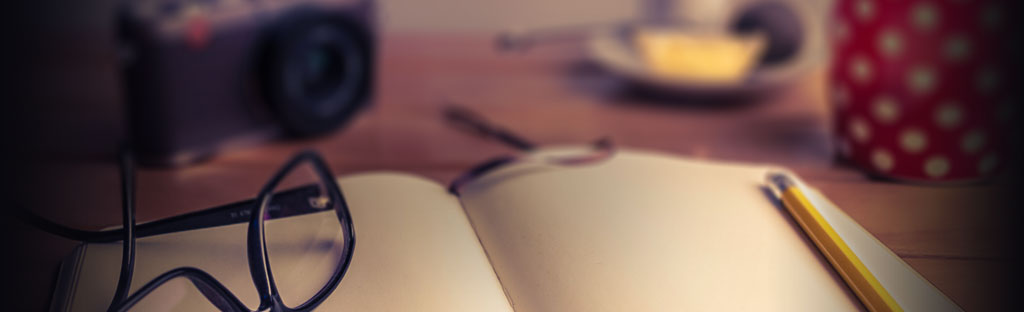
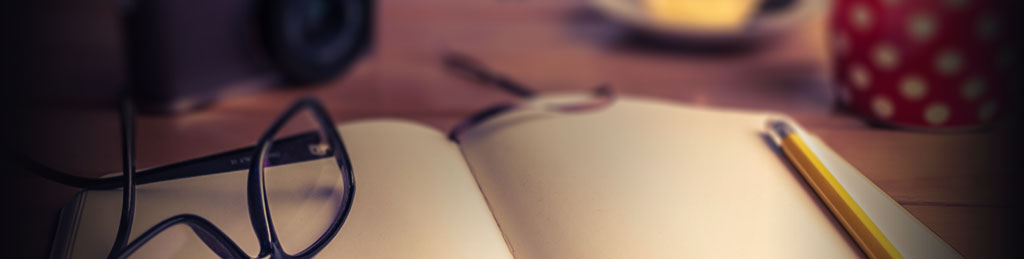
header dimensions

diff --git a/Build/site.css b/Build/site.css
@@ -53,8 +53,8 @@ header {
   -webkit-box-sizing: border-box;
   -moz-box-sizing: border-box;
   box-sizing: border-box;
-  height: 312px;
-  padding-top: 175px; }
+  height: 259px;
+  padding-top: 125px; }
 
 /* nav */
 nav li {
@@ -66,7 +66,7 @@ nav li {
   /* weird webkit bug? */ }
   .main-nav li {
     border-left: 1px solid #222324;
-    padding: 3px 15px;
+    padding: 3px 18px;
     background: transparent; }
     .about .main-nav li {
       border-color: rgba(255, 255, 255, 0.2); }

diff --git a/site.scss b/site.scss
@@ -34,8 +34,8 @@ a { color:inherit; text-decoration:none; }
 /* header */
 header {
   @include box-sizing(border-box);
-  height:312px;
-  padding-top:175px;
+  height:259px;
+  padding-top:125px;
 }
 
 /* nav */
@@ -46,7 +46,7 @@ nav li { display:inline; }
 
   li {
     border-left:1px solid #222324;
-    padding:3px 15px;
+    padding:3px 18px;
     background: transparent;
     .about & { border-color: rgba(255,255,255,.2); }
   }

diff --git a/Build/about.html b/Build/about.html
@@ -10,7 +10,7 @@
       </script>
 
 <meta charset="UTF-8" />
-<meta name="author" content="Ivana Vasilj, dev@ivana.im" lang="hr" />
+<meta lang="hr" content="Ivana Vasilj, dev@ivana.im" name="author" />
 
 <link rel="stylesheet" type="text/css" href="site.css" />
 

diff --git a/Build/index.html b/Build/index.html
@@ -10,7 +10,7 @@
       </script>
 
 <meta charset="UTF-8" />
-<meta name="author" content="Ivana Vasilj, dev@ivana.im" lang="hr" />
+<meta lang="hr" content="Ivana Vasilj, dev@ivana.im" name="author" />
 
 <link rel="stylesheet" type="text/css" href="site.css" />
 
